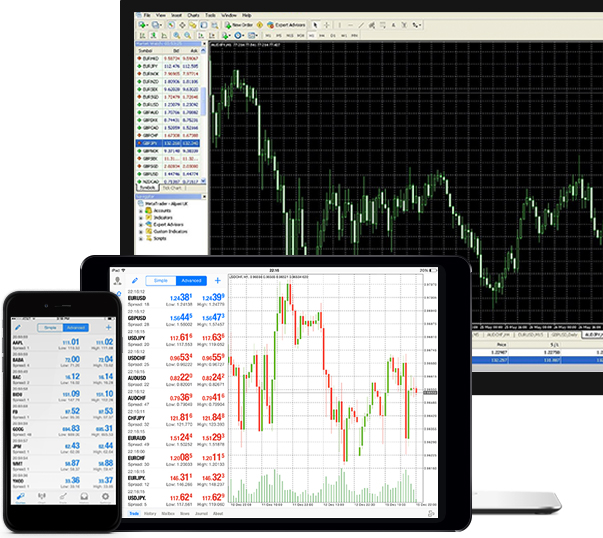
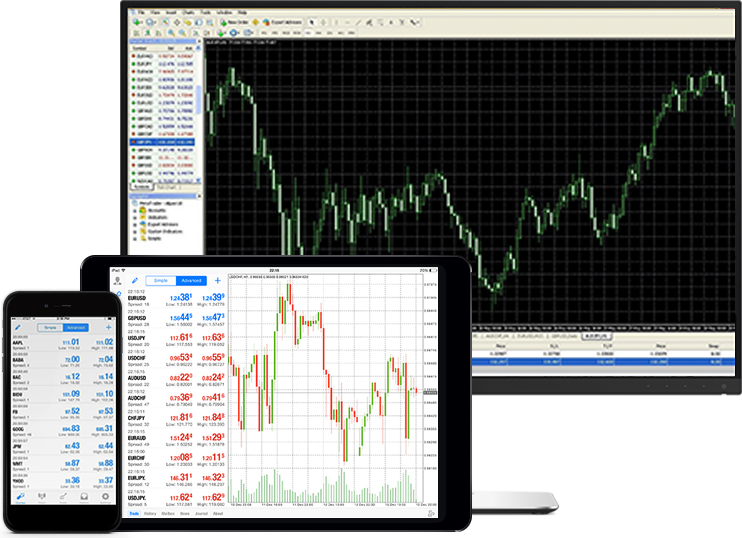
forex-tech and platforms page added.

diff --git a/src/_modules/platforms/platforms.scss b/src/_modules/platforms/platforms.scss
@@ -1,0 +1,80 @@
+.platforms {
+  @extend .product-detail;
+  display: flex;
+  flex-direction: column;
+  overflow: hidden;
+
+  @media #{$mq-desktop-small-up} {
+    flex-direction: row;
+    padding-right: 0;
+  }
+
+  &__text-wrap {
+    flex: 1;
+
+    @media #{$mq-desktop-small-up} {
+      padding-right: calc(#{$primary-gutter} * 5);
+    }
+
+    h3 {
+      @extend %typography-section-title;
+    }
+
+    h5 {
+      @extend %typography-title-v-two;
+      margin: 0;
+    }
+
+    p {
+      @extend %typography-body;
+    }
+
+    p, h5, h3 {
+      margin-left: 0;
+
+      @media #{$mq-tablet-small-up} {
+        margin-left: $primary-gutter;
+      }
+    }
+
+    ul {
+      padding: 0;
+    }
+  }
+
+  &__image {
+    img {
+      width: 100%;
+    }
+
+    @media #{$mq-desktop-small-up} {
+      margin-right: calc(-#{$primary-gutter} * 2.5);
+    }
+  }
+
+  &__image-wrap {
+    position: relative;
+
+    @media #{$mq-tablet-small-up} {
+      margin: calc(#{$primary-gutter} * 2) 0 0 0;
+    }
+
+    @media #{$mq-desktop-small-up} {
+      flex-direction: column;
+      display: flex;
+      flex: 1;
+    }
+
+    .institutional__block {
+      position: relative;
+      width: 288px;
+      height: 150px;
+      margin: $primary-gutter 0 auto auto;
+      flex: 0;
+
+      @media #{$mq-desktop-small-up} {
+        margin: calc(#{$primary-gutter} * 2.5) calc(#{$primary-gutter} * 2.5) auto auto;
+      }
+    }
+  }
+}

diff --git a/src/_modules/forex-tech/forex-tech.scss b/src/_modules/forex-tech/forex-tech.scss
@@ -1,0 +1,26 @@
+.forex-tech {
+  @extend .account-details;
+
+  .institutional__block {
+    min-height: 250px;
+
+    @media #{$mq-tablet-large-up} {
+      &:not(:last-child) {
+        margin-right: $primary-gutter;
+      }
+    }
+
+    &:nth-child(1) {
+      background: url('../images/Private/Technologies-Equinix-Logo.jpg') center no-repeat;
+    }
+
+     &:nth-child(2) {
+      background: url('../images/Private/Technologies-PrimeXM-Logo.jpg') center no-repeat;
+    }
+
+     &:nth-child(3) {
+      margin-bottom: 0;
+      background: url('../images/Private/Technologies-FX-Protocol-Logo.jpg') center no-repeat;
+    }
+  }
+}

diff --git a/src/_styles/main.scss b/src/_styles/main.scss
@@ -13,7 +13,7 @@ body {
   padding-top: $condensed-header-height;
 
   &.expanded-header {
-    @media #{$mq-desktop-small-up} {
+    @media #{$mq-tablet-small-up} {
       padding-top: $expanded-header-height;
     }
   }
@@ -117,6 +117,8 @@ body {
 @import '../_modules/notfound/notfound';
 @import '../_modules/account-details/account-details';
 @import '../_modules/terms/terms';
+@import '../_modules/forex-tech/forex-tech';
+@import '../_modules/platforms/platforms';
 @import '../_modules/modal/modal';
 @import '../_modules/twitter-icon/twitter-icon';
 @import '../_modules/daily-analysis/daily-analysis';
